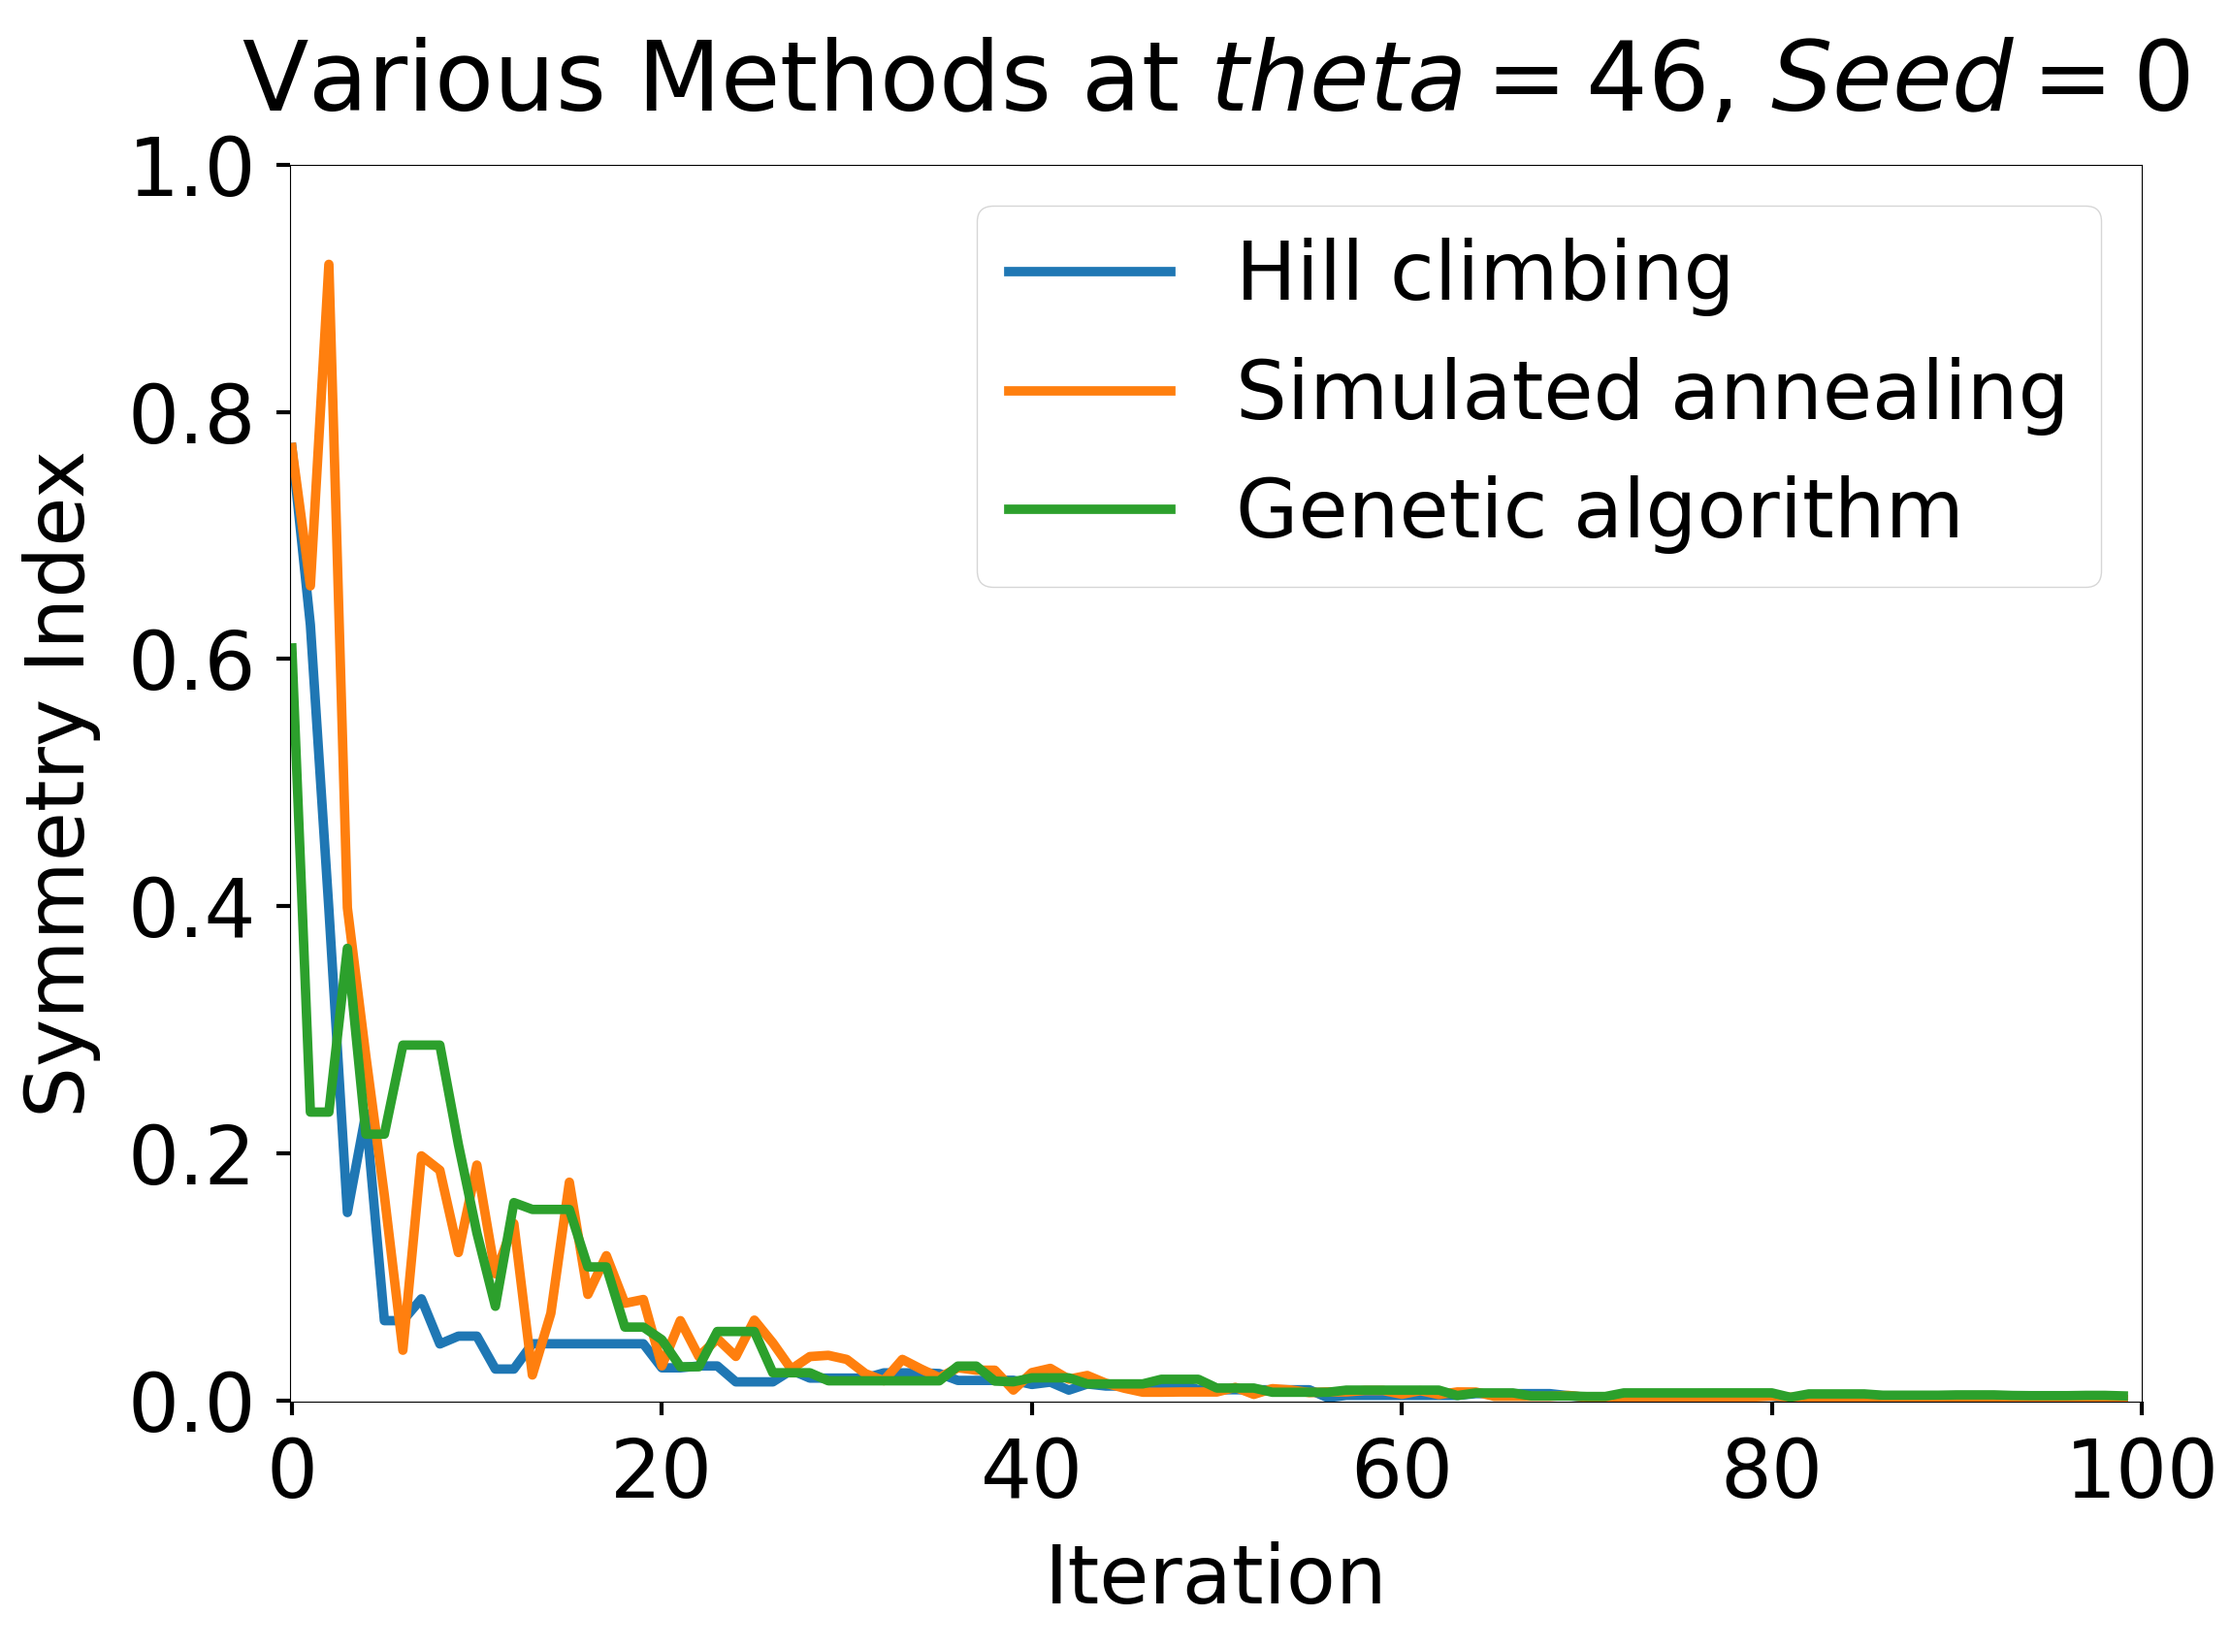
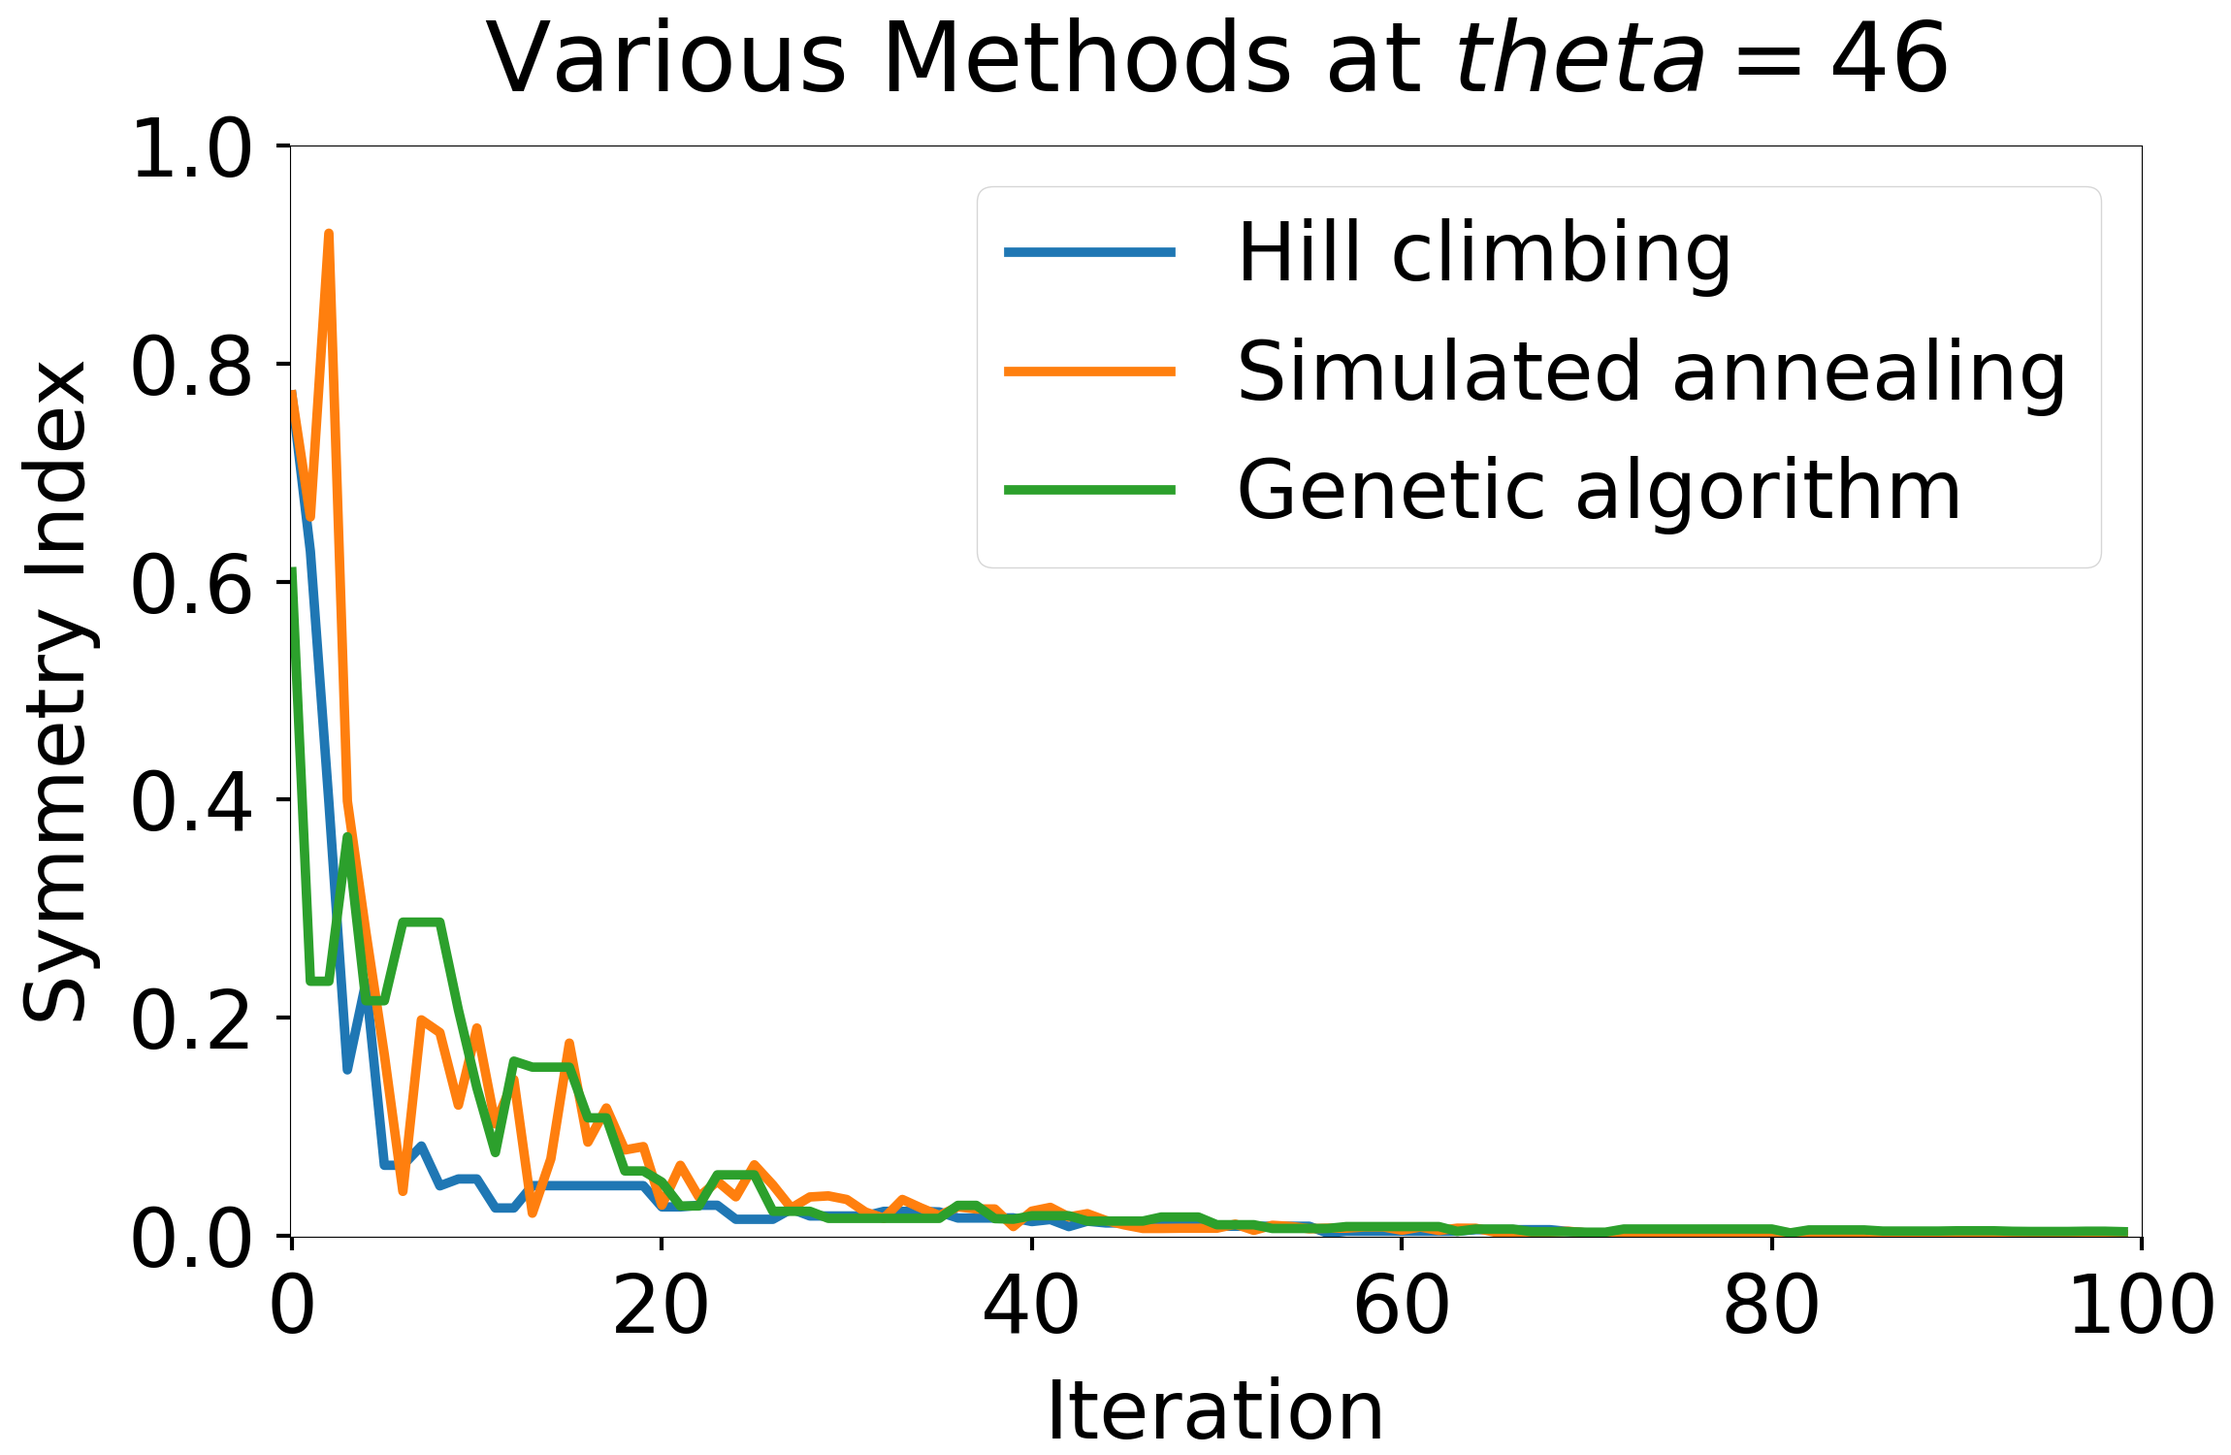
updating plots

diff --git a/plot.py b/plot.py
@@ -357,10 +357,13 @@ class Plot:
             y = np.array(y) * 100
             X = [3,4,5]
             yerr = np.stack([y - y_min, y_max - y])
-            axes[i].errorbar(X, y, yerr=yerr, linewidth=5, capsize=12, capthick=4, fmt=' ', marker='.', markersize=15)
+            axes[i].errorbar(X, y, yerr=yerr, linewidth=5, capsize=20, capthick=5, fmt=' ', marker='.', markersize=25, color='r', ecolor='b')
             axes[i].yaxis.grid()
+            axes[i].set_xlim([2.7, 5.3])
             axes[i].set_title(f'Theta={t}', fontsize=60, pad=20)
             axes[i].set_xlabel('Number of Sensors', fontsize=55, labelpad=10)
+            axes[i].tick_params(axis='y', direction='in', length=10, width=4)
+            axes[i].tick_params(pad=10)
         
         fig.supylabel('Probability of Error (%)')
         # fig.supxlabel('Theta (degree)')
@@ -571,13 +574,13 @@ class Plot:
                 if myinput.unitary_theta == theta and output.start_seed == seed:
                     table[method] = output.symmetries
         print(table)
-        fig, ax = plt.subplots(figsize=(23, 17))
+        fig, ax = plt.subplots(figsize=(23, 15))
         fig.subplots_adjust(left=0.13, right=0.96, top=0.9, bottom=0.15)
         methods = ['Hill climbing', 'Simulated annealing', 'Genetic algorithm']
         for method in methods:
             ax.plot(table[method][:100], label=method)
         ax.legend()
-        ax.set_title(f'Various Methods at $theta={theta}$, $Seed={seed}$', pad=40)
+        ax.set_title(f'Various Methods at $theta={theta}$', pad=40)
         ax.set_xlabel('Iteration', labelpad=20)
         ax.set_ylabel('Symmetry Index', labelpad=20)
         ax.set_ylim([-0.001, 1])
@@ -623,13 +626,13 @@ class Plot:
                 if method == 'Hill climbing' and output.start_seed == 0:
                     table[myinput.unitary_theta] = output.symmetries
         print(table)
-        fig, ax = plt.subplots(figsize=(23, 17))
+        fig, ax = plt.subplots(figsize=(23, 15))
         fig.subplots_adjust(left=0.13, right=0.96, top=0.9, bottom=0.15)
         thetas = [6, 26, 46, 66, 86]
         for theta in thetas:
             ax.plot(table[theta][:100], label=str(theta))
         ax.legend()
-        ax.set_title('Hill Climbing at $Seed=0$, varying Theta', pad=40)
+        ax.set_title('Hill Climbing, varying Theta', pad=40)
         ax.set_xlabel('Iteration', labelpad=20)
         ax.set_ylabel('Symmetry Index', labelpad=20)
         ax.set_ylim([-0.001, 1])
@@ -696,18 +699,18 @@ def symmetry():
     data = Logger.read_log(logs)
     filename = 'result/5.22.2023/symmetry_vary{}.png'
     # Plot.symmetry_varyseed(data, filename.format('seed'))
-    # Plot.symmetry_varymethod(data, filename.format('method'))
-    Plot.symmetry_varymethod_poe(data, filename.format('method_poe'))
-    # Plot.symmetry_varytheta(data, filename.format('theta'))
+    Plot.symmetry_varymethod(data, filename.format('method'))
+    # Plot.symmetry_varymethod_poe(data, filename.format('method_poe'))
+    Plot.symmetry_varytheta(data, filename.format('theta'))
 
 
 
 if __name__ == '__main__':
     # vary_theta()
     # methods_similar()
-    lemma2()
+    # lemma2()
     # lemma3()
     # conjecture()
 
-    # symmetry()
+    symmetry()
     
